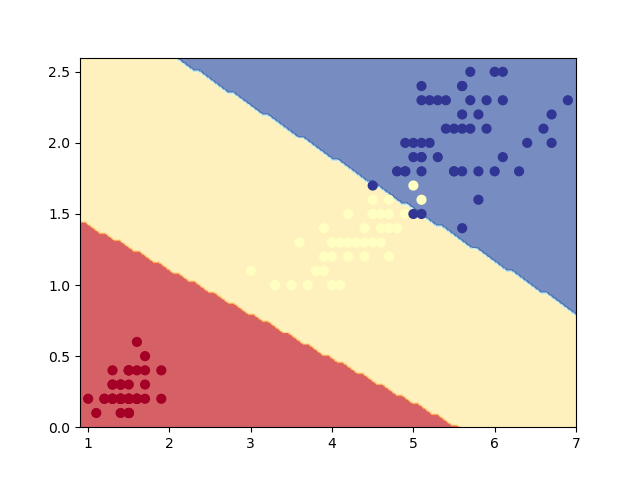
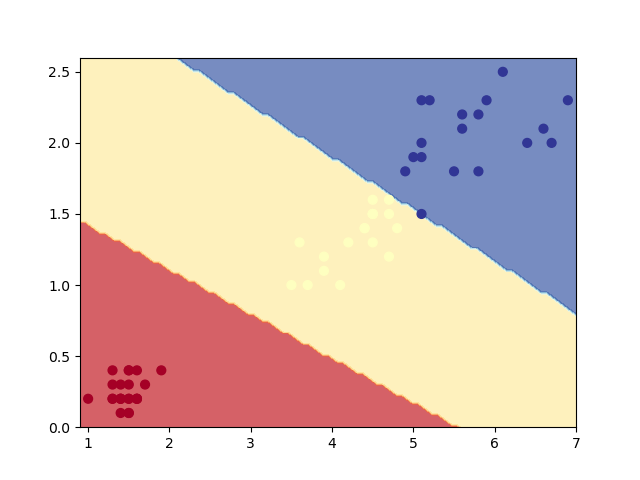
重新生成图片-备份

diff --git a/iris-partial.py b/iris-partial.py
@@ -72,14 +72,23 @@ class Classifier:
         self.optimum.step(self.loss)
 
 
-classifier = Classifier(Adam(lr=0.01))
+classifier = Classifier(RMSEGD(lr=0.01))
 
 # %% train model
-best_acc = 0
+
 acc_record = []
-loss_record = []
-epochs = 50
-for epoch in range(epochs):
+y_logits = []
+for ax in X_test:
+    y_logits.append(classifier(ax))
+y_pred = np.array([softmax(ay).argmax() for ay in y_logits])
+
+acc = 100 * (np.sum(y_pred == y_test) / len(y_test))
+acc_record.append(acc)
+
+best_acc = 0
+#epochs = 100
+epoch = 0
+while best_acc < 100:
     # train loop
     for ax, ay in zip(X_train, y_train):
         classifier.fit(ax, ay)
@@ -95,14 +104,19 @@ for epoch in range(epochs):
 
     if acc > best_acc:
         best_acc = acc
-        plot_decision_boundary(classifier, X, y, 'images/adam_boundary.png')
+        plot_decision_boundary(classifier, X_test, y_test, 'images/rmsegd_boundary.png')
 
-    print(f'[{epoch + 1}] Accuracy: {acc:.2f}, Best Accuracy: {best_acc:.2f}')
+    print(f'[{epoch}] Accuracy: {acc:.2f}, Best Accuracy: {best_acc:.2f}')
+    epoch += 1
 
-plt.plot(range(0, epochs), acc_record)
-plt.title('Accuracy Figure')
+idx = np.argmax(acc_record)
+max_v = np.max(acc_record)
+plt.plot(acc_record)
 plt.xlabel('Epoch')
 plt.ylabel('Accuracy(%)')
 plt.grid(True)
-plt.savefig(f'images/adam_accuracy_figure.png')
+plt.scatter(idx, max_v, marker='x', color='r', s=50, label='Max value')
+plt.text(idx, max_v, f'epoch:{idx}\naccuracy:{max_v:.2f}%',
+         color='black', fontsize=14, ha='center', va='bottom')
+plt.savefig(f'images/rmsegd_accuracy_figure.png')
 plt.show()
